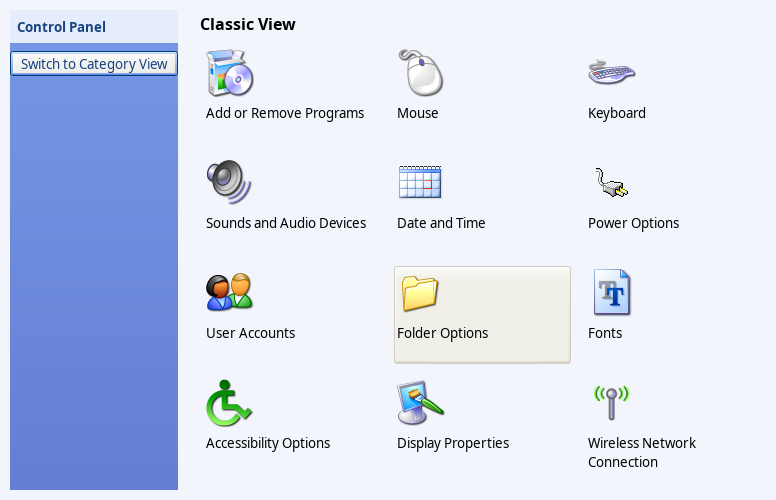
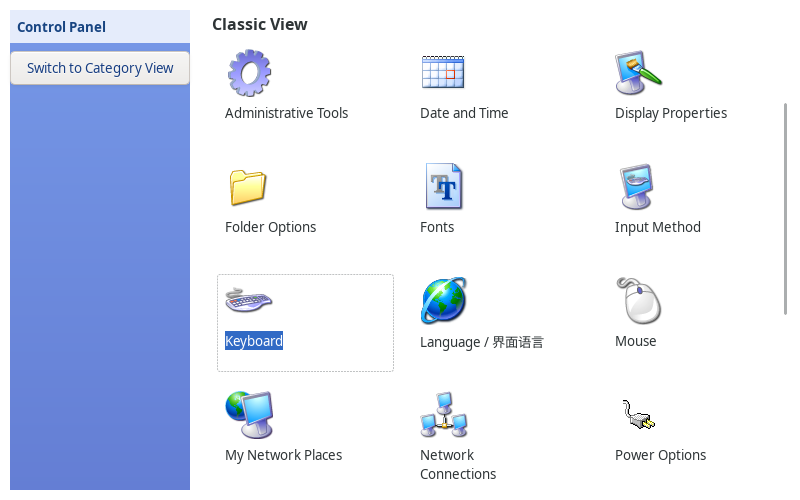
Show the tested keyboard workflow in both laptop Control Panel previews

diff --git a/docs/en.html b/docs/en.html
@@ -1,4 +1,4 @@
-<!doctype html><html lang="en"><meta charset="utf-8"><meta name="viewport" content="width=device-width, initial-scale=1"><title>AgentLinux · A Linux desktop for agents</title><meta name="description" content="Start a task on your desktop. Pick it up in WeChat. Ubuntu Kylin 24.04.5 LTS · ZenCode 3.14.45"><link rel="icon" type="image/png" href="assets/college-emblem.png"><link rel="stylesheet" href="assets/site.css"><header><nav><a class="brand" href="#top"><img src="assets/college-emblem.png" width="56" height="56" alt="Emblem of Fudan University’s College of Computer Science and Artificial Intelligence">AgentLinux</a><div class="navlinks"><a href="#hardware-demo">Hardware demo</a><a href="#features">Features</a><a href="#download">Download</a><a href="index.html" lang="zh-CN">中文</a></div></nav></header><main id="top"><section class="hero"><div><p class="meta">UBUNTU KYLIN 24.04.5 LTS / AMD64</p><h1>AgentLinux</h1><p class="lead">Start a task on your desktop. Pick it up in WeChat.</p><div class="actions"><a class="button" href="#download">Get the ISO ↓</a><a href="https://github.com/bennix/AgentLinux">GitHub ↗</a></div></div><figure><img src="assets/xp-desktop.jpg" alt="AgentLinux desktop in Chinese with a green Start button and a blue taskbar"><figcaption>Chinese desktop after signing in from the installed UEFI virtual disk with the ISO removed</figcaption></figure></section><section class="section" id="hardware-demo"><h2>The desktop agent on real hardware</h2><p class="details">These tasks ran in Chinese and English in a separate graphical session on a physical x86-64 AgentLinux laptop. Select a screenshot to see it at full size.</p><div class="demo-gallery"><figure><a href="assets/agent/laptop-20261125/en-inspect.png"><img src="assets/agent/laptop-20261125/en-inspect.png" loading="lazy" alt="Inspect the kernel and print queue"></a><figcaption><h3>Inspect the kernel and print queue</h3><p>The assistant read the running kernel (Linux 7.0.0-43-generic) and architecture (x86_64). It also reported that the printer check returned no queue details.</p></figcaption></figure><figure><a href="assets/agent/laptop-20261125/writer-document-en.png"><img src="assets/agent/laptop-20261125/writer-document-en.png" loading="lazy" alt="Write a handover note"></a><figcaption><h3>Write a handover note</h3><p>In the same conversation, the assistant used CLI-Anything to create a Writer document. We opened it and checked its kernel, architecture and printer findings against the tool results.</p><a href="assets/agent/laptop-20261125/Handover-en.odt" download>Download the handover note (.odt)</a></figcaption></figure><figure><a href="assets/agent/laptop-20261125/en-printer-wizard.png"><img src="assets/agent/laptop-20261125/en-printer-wizard.png" loading="lazy" alt="Open a wizard and inspect its controls"></a><figcaption><h3>Open a wizard and inspect its controls</h3><p>The assistant launched the Add Printer Wizard and read its accessible controls, including the network printer checkbox, Next and Cancel.</p></figcaption></figure><figure><a href="assets/agent/laptop-20261125/documents-demo-en_US.png"><img src="assets/agent/laptop-20261125/documents-demo-en_US.png" loading="lazy" alt="Open a handover note from My Documents"></a><figcaption><h3>Open a handover note from My Documents</h3><p>The My Documents shortcut opens the personal documents folder. This screenshot was captured on the laptop.</p><p>In a separate desktop session on the laptop, a test script opened the named text file through the accessibility API and verified the text displayed in Notepad against the original.</p></figcaption></figure></div><details class="earlier-demo"><summary>See the earlier calculator walkthrough</summary><div class="demo-gallery"><figure><a href="assets/agent/confirm-app.png"><img src="assets/agent/confirm-app.png" loading="lazy" alt="The assistant reads the kernel version and architecture, then requests permission to open MATE Calculator by its desktop ID."></a><figcaption><h3>Inspect the OS and launch an app</h3><p>The assistant reads the kernel version and architecture, then requests permission to open MATE Calculator by its desktop ID.</p></figcaption></figure><figure><a href="assets/agent/control.png"><img src="assets/agent/control.png" loading="lazy" alt="The assistant inspects the calculator’s accessible controls. The dialog shows the proposed press of the 6 button."></a><figcaption><h3>Find and press a button</h3><p>The assistant inspects the calculator’s accessible controls. The dialog shows the proposed press of the 6 button.</p></figcaption></figure><figure><a href="assets/agent/calculator.png"><img src="assets/agent/calculator.png" loading="lazy" alt="After the agent activates 6, multiply, 7 and equals, the calculator displays 42."></a><figcaption><h3>Read the result in Calculator</h3><p>After the agent activates 6, multiply, 7 and equals, the calculator displays 42.</p></figcaption></figure></div></details></section><section class="section" id="market-demo"><h2>From a market data page to a ZenOffice workbook</h2><p class="details">For this cross-app task, Codex drove Obscura Firefox on the same laptop, read the Yahoo Finance history table, created an XLSX with ZenOffice’s OfficeCLI and opened it in ZenOffice.</p><div class="market-demo"><figure><a href="assets/agent/laptop-20261125/browser-history.png"><img src="assets/agent/laptop-20261125/browser-history.png" alt="GOOGL history in Obscura Firefox, in USD. The November 24, 2026 row is an intraday snapshot." loading="lazy"></a><figcaption>GOOGL history in Obscura Firefox, in USD. The November 24, 2026 row is an intraday snapshot.</figcaption></figure><figure><a href="assets/agent/laptop-20261125/sheet.png"><img src="assets/agent/laptop-20261125/sheet.png" alt="Five rows in ZenOffice. All 30 numeric cells were checked against the page, covering open, high, low, close, adjusted close and volume." loading="lazy"></a><figcaption>Five rows in ZenOffice. All 30 numeric cells were checked against the page, covering open, high, low, close, adjusted close and volume.</figcaption></figure></div><p class="details"><a href="assets/agent/laptop-20261125/Alphabet-GOOGL-snapshot.xlsx" download>Download this workbook (.xlsx)</a> · <a href="https://finance.yahoo.com/quote/GOOGL/history/">Yahoo Finance</a></p></section><section class="section" id="xp-preview"><h2>Control Panel preview</h2><figure><a href="assets/xp-control-panel-en_US.png"><img src="assets/xp-control-panel-en_US.png" width="776" height="500" style="max-width:100%;height:auto" loading="lazy" alt="Classic View with keyboard, display and wireless network settings"></a></figure></section><section id="features" class="section"><h2>From desktop to phone</h2><div class="grid"><article><h3>ZenCode 3.14.45</h3><p>Follow a task, approve actions and enable native desktop observation and clicks in one workspace.</p></article><article><h3>Multi-step desktop actions</h3><p>Find and open apps, switch windows, operate named accessible controls, and inspect connections, disk space and failed services. Review each action before it runs.</p></article><article><h3>WeChat continuity</h3><p>Pair your phone and authorize a workspace to continue a conversation, answer approval requests and receive files.</p></article><article><h3>Models and networking</h3><p>Use ZenMux or configure a compatible endpoint, key and model.</p></article><article><h3>Chinese input and typography</h3><p>Fcitx 5 Pinyin and Noto CJK fonts support Chinese across web pages, desktop editors and monospaced terminals.</p></article><article><h3>Obscura Firefox 0.3.11</h3><p>The default browser disables WebRTC.</p></article></div></section><section id="claude-cage" class="section cage"><div><p class="meta">CLAUDE CAGE / 0.2.0-rc</p><h2>Claude Cage isolated terminal</h2></div><p>Press <kbd>Ctrl</kbd> + <kbd>Alt</kbd> + <kbd>T</kbd> or open Terminal from the applications menu. On first use, install Claude Cage 0.2.0-rc, create a local Cage account, save the recovery key and complete setup in the Cage workbench. Start the guest, then open a terminal to connect. Open Host Terminal from the applications menu for an independent host shell. Each Cage window has its own shell in the same persistent guest. A local guest requires Intel VT-x or AMD-V and user access to KVM. On Apple Silicon under x86 emulation, connect to a remote Cage environment.</p></section><section class="section" id="installation"><h2>Choose where to run AgentLinux</h2><div class="grid"><article><h3>Try the Live desktop</h3><p>The LiveCD signs in automatically. If prompted, enter <code>agentlinux</code> as the username, leave the password blank and press Enter. The preinstalled SanDisk USB drive uses the default username <code>agent</code> and password <code>agentfudan</code>. If you install AgentLinux yourself, sign in with the credentials you set during installation.</p><p>Write the ISO to a spare USB drive. This erases that drive. Select it in the computer’s boot menu to try the desktop. An ordinary Live session discards changes at shutdown.</p></article><article><h3>Install on an internal drive</h3><p>Open Install Ubuntu Kylin on the Live desktop. Check the destination by model and capacity, review the partition changes, then install. Remove the installer USB when prompted to restart.</p></article><article><h3>Carry your system on USB</h3><p>Boot the installer and select a second USB drive for a full installation. Boot that drive to keep your files, input history and app settings across sessions. A separately configured dual-mode drive can also offer a Live installer entry.</p></article></div></section><section><h2>Keep working with the lid closed</h2><p class="details">By default, closing the lid turns off the built-in display and keeps the laptop awake on AC or battery power. Running agent tasks continue, and you can keep using SSH while the laptop is connected to the network.</p></section><section class="download" id="download"><p class="meta">2026.11.25.5 / 8.17 GiB</p><h2>Download and boot</h2><p>XP window titles are left-aligned. The Start menu’s Email entry opens the mail reader chooser. Fixes a battery tray crash at shutdown that triggered an error report on the next login. Right-click the network icon to choose Wi-Fi on small screens. The live desktop includes a disk installer shortcut.</p><p class="details">ZenCode opens from the applications menu on demand. Includes MyIME, WeChat for Linux, ZenOffice and GParted. Open Properties on a connected Wi-Fi network to view its IPv4, IPv6, gateway and DNS. Download the complete ISO and its checksum from Hugging Face. Allow at least 9 GB of free space.</p><div class="actions"><a class="button" href="https://huggingface.co/datasets/Bennixzp2024/AgentLinux/resolve/v2026.11.25.5/AgentLinux-24.04.5-desktop-amd64.iso?download=true">Download full ISO ↓</a><a href="https://huggingface.co/datasets/Bennixzp2024/AgentLinux/resolve/v2026.11.25.5/AgentLinux-24.04.5-desktop-amd64.iso.sha256?download=true">SHA-256</a><a href="manual/agent-guide.pdf" hreflang="zh-CN">Agent user guide (Chinese PDF)</a><a href="https://huggingface.co/datasets/Bennixzp2024/AgentLinux">Hugging Face ↗</a></div><pre># Linux
+<!doctype html><html lang="en"><meta charset="utf-8"><meta name="viewport" content="width=device-width, initial-scale=1"><title>AgentLinux · A Linux desktop for agents</title><meta name="description" content="Start a task on your desktop. Pick it up in WeChat. Ubuntu Kylin 24.04.5 LTS · ZenCode 3.14.45"><link rel="icon" type="image/png" href="assets/college-emblem.png"><link rel="stylesheet" href="assets/site.css"><header><nav><a class="brand" href="#top"><img src="assets/college-emblem.png" width="56" height="56" alt="Emblem of Fudan University’s College of Computer Science and Artificial Intelligence">AgentLinux</a><div class="navlinks"><a href="#hardware-demo">Hardware demo</a><a href="#features">Features</a><a href="#download">Download</a><a href="index.html" lang="zh-CN">中文</a></div></nav></header><main id="top"><section class="hero"><div><p class="meta">UBUNTU KYLIN 24.04.5 LTS / AMD64</p><h1>AgentLinux</h1><p class="lead">Start a task on your desktop. Pick it up in WeChat.</p><div class="actions"><a class="button" href="#download">Get the ISO ↓</a><a href="https://github.com/bennix/AgentLinux">GitHub ↗</a></div></div><figure><img src="assets/xp-desktop.jpg" alt="AgentLinux desktop in Chinese with a green Start button and a blue taskbar"><figcaption>Chinese desktop after signing in from the installed UEFI virtual disk with the ISO removed</figcaption></figure></section><section class="section" id="hardware-demo"><h2>The desktop agent on real hardware</h2><p class="details">These tasks ran in Chinese and English in a separate graphical session on a physical x86-64 AgentLinux laptop. Select a screenshot to see it at full size.</p><div class="demo-gallery"><figure><a href="assets/agent/laptop-20261125/en-inspect.png"><img src="assets/agent/laptop-20261125/en-inspect.png" loading="lazy" alt="Inspect the kernel and print queue"></a><figcaption><h3>Inspect the kernel and print queue</h3><p>The assistant read the running kernel (Linux 7.0.0-43-generic) and architecture (x86_64). It also reported that the printer check returned no queue details.</p></figcaption></figure><figure><a href="assets/agent/laptop-20261125/writer-document-en.png"><img src="assets/agent/laptop-20261125/writer-document-en.png" loading="lazy" alt="Write a handover note"></a><figcaption><h3>Write a handover note</h3><p>In the same conversation, the assistant used CLI-Anything to create a Writer document. We opened it and checked its kernel, architecture and printer findings against the tool results.</p><a href="assets/agent/laptop-20261125/Handover-en.odt" download>Download the handover note (.odt)</a></figcaption></figure><figure><a href="assets/agent/laptop-20261125/en-printer-wizard.png"><img src="assets/agent/laptop-20261125/en-printer-wizard.png" loading="lazy" alt="Open a wizard and inspect its controls"></a><figcaption><h3>Open a wizard and inspect its controls</h3><p>The assistant launched the Add Printer Wizard and read its accessible controls, including the network printer checkbox, Next and Cancel.</p></figcaption></figure><figure><a href="assets/agent/laptop-20261125/documents-demo-en_US.png"><img src="assets/agent/laptop-20261125/documents-demo-en_US.png" loading="lazy" alt="Open a handover note from My Documents"></a><figcaption><h3>Open a handover note from My Documents</h3><p>The My Documents shortcut opens the personal documents folder. This screenshot was captured on the laptop.</p><p>In a separate desktop session on the laptop, a test script opened the named text file through the accessibility API and verified the text displayed in Notepad against the original.</p></figcaption></figure></div><details class="earlier-demo"><summary>See the earlier calculator walkthrough</summary><div class="demo-gallery"><figure><a href="assets/agent/confirm-app.png"><img src="assets/agent/confirm-app.png" loading="lazy" alt="The assistant reads the kernel version and architecture, then requests permission to open MATE Calculator by its desktop ID."></a><figcaption><h3>Inspect the OS and launch an app</h3><p>The assistant reads the kernel version and architecture, then requests permission to open MATE Calculator by its desktop ID.</p></figcaption></figure><figure><a href="assets/agent/control.png"><img src="assets/agent/control.png" loading="lazy" alt="The assistant inspects the calculator’s accessible controls. The dialog shows the proposed press of the 6 button."></a><figcaption><h3>Find and press a button</h3><p>The assistant inspects the calculator’s accessible controls. The dialog shows the proposed press of the 6 button.</p></figcaption></figure><figure><a href="assets/agent/calculator.png"><img src="assets/agent/calculator.png" loading="lazy" alt="After the agent activates 6, multiply, 7 and equals, the calculator displays 42."></a><figcaption><h3>Read the result in Calculator</h3><p>After the agent activates 6, multiply, 7 and equals, the calculator displays 42.</p></figcaption></figure></div></details></section><section class="section" id="market-demo"><h2>From a market data page to a ZenOffice workbook</h2><p class="details">For this cross-app task, Codex drove Obscura Firefox on the same laptop, read the Yahoo Finance history table, created an XLSX with ZenOffice’s OfficeCLI and opened it in ZenOffice.</p><div class="market-demo"><figure><a href="assets/agent/laptop-20261125/browser-history.png"><img src="assets/agent/laptop-20261125/browser-history.png" alt="GOOGL history in Obscura Firefox, in USD. The November 24, 2026 row is an intraday snapshot." loading="lazy"></a><figcaption>GOOGL history in Obscura Firefox, in USD. The November 24, 2026 row is an intraday snapshot.</figcaption></figure><figure><a href="assets/agent/laptop-20261125/sheet.png"><img src="assets/agent/laptop-20261125/sheet.png" alt="Five rows in ZenOffice. All 30 numeric cells were checked against the page, covering open, high, low, close, adjusted close and volume." loading="lazy"></a><figcaption>Five rows in ZenOffice. All 30 numeric cells were checked against the page, covering open, high, low, close, adjusted close and volume.</figcaption></figure></div><p class="details"><a href="assets/agent/laptop-20261125/Alphabet-GOOGL-snapshot.xlsx" download>Download this workbook (.xlsx)</a> · <a href="https://finance.yahoo.com/quote/GOOGL/history/">Yahoo Finance</a></p></section><section class="section" id="xp-preview"><h2>Control Panel preview</h2><figure><a href="assets/xp-control-panel-en_US.png"><img src="assets/xp-control-panel-en_US.png" width="800" height="500" style="max-width:100%;height:auto" loading="lazy" alt="Classic Control Panel on the laptop with the Keyboard icon label highlighted in blue"></a><figcaption>Tested on the laptop preview build. Press K to select Keyboard, Enter to open its properties and Esc to return to the selected icon.</figcaption></figure></section><section id="features" class="section"><h2>From desktop to phone</h2><div class="grid"><article><h3>ZenCode 3.14.45</h3><p>Follow a task, approve actions and enable native desktop observation and clicks in one workspace.</p></article><article><h3>Multi-step desktop actions</h3><p>Find and open apps, switch windows, operate named accessible controls, and inspect connections, disk space and failed services. Review each action before it runs.</p></article><article><h3>WeChat continuity</h3><p>Pair your phone and authorize a workspace to continue a conversation, answer approval requests and receive files.</p></article><article><h3>Models and networking</h3><p>Use ZenMux or configure a compatible endpoint, key and model.</p></article><article><h3>Chinese input and typography</h3><p>Fcitx 5 Pinyin and Noto CJK fonts support Chinese across web pages, desktop editors and monospaced terminals.</p></article><article><h3>Obscura Firefox 0.3.11</h3><p>The default browser disables WebRTC.</p></article></div></section><section id="claude-cage" class="section cage"><div><p class="meta">CLAUDE CAGE / 0.2.0-rc</p><h2>Claude Cage isolated terminal</h2></div><p>Press <kbd>Ctrl</kbd> + <kbd>Alt</kbd> + <kbd>T</kbd> or open Terminal from the applications menu. On first use, install Claude Cage 0.2.0-rc, create a local Cage account, save the recovery key and complete setup in the Cage workbench. Start the guest, then open a terminal to connect. Open Host Terminal from the applications menu for an independent host shell. Each Cage window has its own shell in the same persistent guest. A local guest requires Intel VT-x or AMD-V and user access to KVM. On Apple Silicon under x86 emulation, connect to a remote Cage environment.</p></section><section class="section" id="installation"><h2>Choose where to run AgentLinux</h2><div class="grid"><article><h3>Try the Live desktop</h3><p>The LiveCD signs in automatically. If prompted, enter <code>agentlinux</code> as the username, leave the password blank and press Enter. The preinstalled SanDisk USB drive uses the default username <code>agent</code> and password <code>agentfudan</code>. If you install AgentLinux yourself, sign in with the credentials you set during installation.</p><p>Write the ISO to a spare USB drive. This erases that drive. Select it in the computer’s boot menu to try the desktop. An ordinary Live session discards changes at shutdown.</p></article><article><h3>Install on an internal drive</h3><p>Open Install Ubuntu Kylin on the Live desktop. Check the destination by model and capacity, review the partition changes, then install. Remove the installer USB when prompted to restart.</p></article><article><h3>Carry your system on USB</h3><p>Boot the installer and select a second USB drive for a full installation. Boot that drive to keep your files, input history and app settings across sessions. A separately configured dual-mode drive can also offer a Live installer entry.</p></article></div></section><section><h2>Keep working with the lid closed</h2><p class="details">By default, closing the lid turns off the built-in display and keeps the laptop awake on AC or battery power. Running agent tasks continue, and you can keep using SSH while the laptop is connected to the network.</p></section><section class="download" id="download"><p class="meta">2026.11.25.5 / 8.17 GiB</p><h2>Download and boot</h2><p>XP window titles are left-aligned. The Start menu’s Email entry opens the mail reader chooser. Fixes a battery tray crash at shutdown that triggered an error report on the next login. Right-click the network icon to choose Wi-Fi on small screens. The live desktop includes a disk installer shortcut.</p><p class="details">ZenCode opens from the applications menu on demand. Includes MyIME, WeChat for Linux, ZenOffice and GParted. Open Properties on a connected Wi-Fi network to view its IPv4, IPv6, gateway and DNS. Download the complete ISO and its checksum from Hugging Face. Allow at least 9 GB of free space.</p><div class="actions"><a class="button" href="https://huggingface.co/datasets/Bennixzp2024/AgentLinux/resolve/v2026.11.25.5/AgentLinux-24.04.5-desktop-amd64.iso?download=true">Download full ISO ↓</a><a href="https://huggingface.co/datasets/Bennixzp2024/AgentLinux/resolve/v2026.11.25.5/AgentLinux-24.04.5-desktop-amd64.iso.sha256?download=true">SHA-256</a><a href="manual/agent-guide.pdf" hreflang="zh-CN">Agent user guide (Chinese PDF)</a><a href="https://huggingface.co/datasets/Bennixzp2024/AgentLinux">Hugging Face ↗</a></div><pre># Linux
 sha256sum -c AgentLinux-24.04.5-desktop-amd64.iso.sha256
 
 # macOS

diff --git a/docs/index.html b/docs/index.html
@@ -1,4 +1,4 @@
-<!doctype html><html lang="zh-CN"><meta charset="utf-8"><meta name="viewport" content="width=device-width, initial-scale=1"><title>AgentLinux · 中文 Agent 桌面系统</title><meta name="description" content="在桌面上交给 Agent，在微信里接着做。 Ubuntu Kylin 24.04.5 LTS · ZenCode 3.14.45"><link rel="icon" type="image/png" href="assets/college-emblem.png"><link rel="stylesheet" href="assets/site.css"><header><nav><a class="brand" href="#top"><img src="assets/college-emblem.png" width="56" height="56" alt="复旦大学计算与智能创新学院徽章">AgentLinux</a><div class="navlinks"><a href="#hardware-demo">真机演示</a><a href="#features">功能</a><a href="#download">下载</a><a href="en.html" lang="en">English</a></div></nav></header><main id="top"><section class="hero"><div><p class="meta">UBUNTU KYLIN 24.04.5 LTS / AMD64</p><h1>AgentLinux</h1><p class="lead">在桌面上交给 Agent，在微信里接着做。</p><div class="actions"><a class="button" href="#download">获取 ISO ↓</a><a href="https://github.com/bennix/AgentLinux">GitHub ↗</a></div></div><figure><img src="assets/xp-desktop.jpg" alt="QEMU 中的 AgentLinux 中文桌面，带有绿色开始按钮和蓝色任务栏"><figcaption>移除 ISO 后，从虚拟硬盘独立启动并登录的中文桌面</figcaption></figure></section><section class="section" id="hardware-demo"><h2>桌面 Agent 真机演示</h2><p class="details">在一台运行 AgentLinux 的 x86-64 笔记本上，分别用中文和英文向 ZenMux 桌面助手下达任务。以下截图来自独立图形会话，点图可查看原图。</p><div class="demo-gallery"><figure><a href="assets/agent/laptop-20261125/zh-inspect.png"><img src="assets/agent/laptop-20261125/zh-inspect.png" loading="lazy" alt="查询内核与打印队列"></a><figcaption><h3>查询内核与打印队列</h3><p>助手调用系统接口，读出 Linux 7.0.0-43-generic 和 x86_64。打印服务返回空列表，助手在回复中说明了这一点。</p></figcaption></figure><figure><a href="assets/agent/laptop-20261125/writer-document-zh.png"><img src="assets/agent/laptop-20261125/writer-document-zh.png" loading="lazy" alt="把检查结果写成交接记录"></a><figcaption><h3>把检查结果写成交接记录</h3><p>在同一段对话中，助手调用 CLI-Anything 生成 Writer 文档。打开文件后，内核、架构和打印队列结果均与实测记录一致。</p><a href="assets/agent/laptop-20261125/Handover-zh.odt" download>下载交接记录 (.odt)</a></figcaption></figure><figure><a href="assets/agent/laptop-20261125/zh-printer-wizard.png"><img src="assets/agent/laptop-20261125/zh-printer-wizard.png" loading="lazy" alt="打开向导并读取窗口控件"></a><figcaption><h3>打开向导并读取窗口控件</h3><p>助手启动添加打印机向导，通过辅助功能接口识别了“使用网络打印机地址”“下一步”和“取消”。</p></figcaption></figure><figure><a href="assets/agent/laptop-20261125/documents-demo-zh_CN.png"><img src="assets/agent/laptop-20261125/documents-demo-zh_CN.png" loading="lazy" alt="从“我的文档”打开交接记录"></a><figcaption><h3>从“我的文档”打开交接记录</h3><p>本版桌面的“我的文档”可直接打开个人文档目录。下图摄于笔记本。</p><p>在笔记本的独立图形会话中，测试程序通过无障碍接口按名称打开文本文件，再从记事本读回正文，与原文件逐字核对。</p></figcaption></figure></div><details class="earlier-demo"><summary>查看之前的计算器操作演示</summary><div class="demo-gallery"><figure><a href="assets/agent/confirm-app.png"><img src="assets/agent/confirm-app.png" loading="lazy" alt="助手读出内核版本和架构，然后请求按桌面 ID 启动 MATE 计算器。"></a><figcaption><h3>查询系统并打开应用</h3><p>助手读出内核版本和架构，然后请求按桌面 ID 启动 MATE 计算器。</p></figcaption></figure><figure><a href="assets/agent/control.png"><img src="assets/agent/control.png" loading="lazy" alt="助手读取计算器的可访问控件。图中是按下数字 6 之前的确认窗口。"></a><figcaption><h3>识别并操作窗口按钮</h3><p>助手读取计算器的可访问控件。图中是按下数字 6 之前的确认窗口。</p></figcaption></figure><figure><a href="assets/agent/calculator.png"><img src="assets/agent/calculator.png" loading="lazy" alt="依次激活 6、乘号、7 和等号后，计算器窗口显示实际结果。"></a><figcaption><h3>在计算器中得到 42</h3><p>依次激活 6、乘号、7 和等号后，计算器窗口显示实际结果。</p></figcaption></figure></div></details></section><section class="section" id="market-demo"><h2>从行情网页到 ZenOffice 工作簿</h2><p class="details">本次跨应用任务由 Codex 在同一台笔记本上执行。它操作 Obscura Firefox，读取 Yahoo Finance 的历史行情表，再调用 ZenOffice 的 OfficeCLI 生成 XLSX，并用 ZenOffice 打开成品。</p><div class="market-demo"><figure><a href="assets/agent/laptop-20261125/browser-history.png"><img src="assets/agent/laptop-20261125/browser-history.png" alt="Obscura Firefox 中的 GOOGL 行情，币种为美元。2026 年 11 月 24 日一行为交易时段内截取的快照。" loading="lazy"></a><figcaption>Obscura Firefox 中的 GOOGL 行情，币种为美元。2026 年 11 月 24 日一行为交易时段内截取的快照。</figcaption></figure><figure><a href="assets/agent/laptop-20261125/sheet.png"><img src="assets/agent/laptop-20261125/sheet.png" alt="ZenOffice 中的五行数据。逐项核对了开盘价、最高价、最低价、收盘栏、调整后收盘栏和成交量，共 30 个数值。" loading="lazy"></a><figcaption>ZenOffice 中的五行数据。逐项核对了开盘价、最高价、最低价、收盘栏、调整后收盘栏和成交量，共 30 个数值。</figcaption></figure></div><p class="details"><a href="assets/agent/laptop-20261125/Alphabet-GOOGL-snapshot.xlsx" download>下载本次工作簿 (.xlsx)</a> · <a href="https://finance.yahoo.com/quote/GOOGL/history/">Yahoo Finance</a></p></section><section class="section" id="xp-preview"><h2>新版控制面板预览</h2><figure><a href="assets/xp-control-panel-zh_CN.png"><img src="assets/xp-control-panel-zh_CN.png" width="776" height="500" style="max-width:100%;height:auto" loading="lazy" alt="经典视图中的无线网络连接、网上邻居和打印机设置"></a></figure></section><section id="features" class="section"><h2>从桌面到手机的工作流</h2><div class="grid"><article><h3>ZenCode 3.14.45</h3><p>把任务交给工作台，在同一会话里查看进度、确认操作，或启用原生桌面观察与点击。</p></article><article><h3>微信续接与文件回传</h3><p>在工作台扫码配对，授权账号和工作区。手机可续接会话、回答确认请求并接收工作区文件。</p></article><article><h3>多步桌面操作</h3><p>授权后，助手可以查找并启动应用、切换窗口、识别并操作具名按钮，也可以检查网络、磁盘和系统服务。每次操作前可确认或取消。</p></article><article><h3>AI 供应商与模型</h3><p>助手默认使用 ZenMux，可保存其他兼容接口、密钥和模型。</p></article><article><h3>中文输入与排版</h3><p>Fcitx 5 拼音配合 Noto CJK 字体，覆盖网页、桌面编辑器与等宽终端。</p></article><article><h3>Obscura Firefox 0.3.11</h3><p>默认浏览器关闭 WebRTC。</p></article></div></section><section id="claude-cage" class="section cage"><div><p class="meta">CLAUDE CAGE / 0.2.0-rc</p><h2>Claude Cage 隔离终端</h2></div><p>按 <kbd>Ctrl</kbd> + <kbd>Alt</kbd> + <kbd>T</kbd>，或从应用菜单打开终端。首次打开终端时会进入 Claude Cage 0.2.0-rc 设置。在工作台创建本地账户并保存恢复密钥。完成工作台设置并启动客机后，再打开终端即可进入隔离会话。应用菜单里的“本机终端”可独立运行宿主机 shell。每个 Cage 窗口有自己的 shell，同一配置共用一台持久客机。Intel VT-x 或 AMD-V 需开启，Linux 用户需能访问 KVM。Apple Silicon 上的 x86 QEMU 模拟环境可连接远程 Cage。</p></section><section class="section" id="installation"><h2>选择启动和安装方式</h2><div class="grid"><article><h3>试用 Live 桌面</h3><p>LiveCD 默认自动登录。若出现登录界面，用户名为 <code>agentlinux</code>，密码留空，直接按回车。预装 SanDisk U 盘默认用户名为 <code>agent</code>，密码为 <code>agentfudan</code>。自行安装时，请使用安装过程中设置的账户和密码。</p><p>把 ISO 写入备用 U 盘（写入会清空该盘），从电脑启动菜单选择它。进入 Live 桌面即可试用；普通 Live 会话关机后会丢失改动。</p></article><article><h3>安装到内置硬盘</h3><p>在 Live 桌面打开“安装 Ubuntu Kylin”。按型号和容量核对目标硬盘，确认分区方案。安装器提示重启时拔出启动盘。</p></article><article><h3>把系统装在 U 盘上</h3><p>从安装介质启动，选择另一只 U 盘作为完整安装目标。以后从这只盘启动，文件、输入法词频和应用设置都可保存。另行配置双模式菜单后，还可选择 Live 安装入口。</p></article></div></section><section><h2>合盖后继续远程工作</h2><p class="details">笔记本默认在合盖时关闭内置屏幕，接电和电池供电时系统都保持运行。你可以合上屏幕，让正在执行的 Agent 任务继续；网络保持连接时，也可以通过 SSH 继续操作。</p></section><section class="download" id="download"><p class="meta">2026.11.25.5 / 8.17 GiB</p><h2>下载并启动</h2><p>XP 蓝色标题栏采用左对齐布局。中文开始菜单中的“电子邮件”可打开邮件阅读器选择窗口。修复电池托盘在关机时崩溃、下次登录提示内部错误的问题。右键点击网络图标即可在小屏幕上选择 Wi-Fi，Live 桌面提供硬盘安装入口。</p><p class="details">ZenCode 工作台可从应用菜单手动打开。内置 MyIME、原生微信、ZenOffice 和 GParted。点击已连接 Wi-Fi 的“属性”可查看 IPv4、IPv6、网关及 DNS。从 Hugging Face 直接下载完整 ISO 和校验文件。请预留至少 9 GB 磁盘空间。</p><div class="actions"><a class="button" href="https://huggingface.co/datasets/Bennixzp2024/AgentLinux/resolve/v2026.11.25.5/AgentLinux-24.04.5-desktop-amd64.iso?download=true">下载完整 ISO ↓</a><a href="https://huggingface.co/datasets/Bennixzp2024/AgentLinux/resolve/v2026.11.25.5/AgentLinux-24.04.5-desktop-amd64.iso.sha256?download=true">SHA-256</a><a href="manual/agent-guide.pdf" hreflang="zh-CN">Agent 使用手册（中文 PDF）</a><a href="https://huggingface.co/datasets/Bennixzp2024/AgentLinux">Hugging Face ↗</a></div><pre># Linux
+<!doctype html><html lang="zh-CN"><meta charset="utf-8"><meta name="viewport" content="width=device-width, initial-scale=1"><title>AgentLinux · 中文 Agent 桌面系统</title><meta name="description" content="在桌面上交给 Agent，在微信里接着做。 Ubuntu Kylin 24.04.5 LTS · ZenCode 3.14.45"><link rel="icon" type="image/png" href="assets/college-emblem.png"><link rel="stylesheet" href="assets/site.css"><header><nav><a class="brand" href="#top"><img src="assets/college-emblem.png" width="56" height="56" alt="复旦大学计算与智能创新学院徽章">AgentLinux</a><div class="navlinks"><a href="#hardware-demo">真机演示</a><a href="#features">功能</a><a href="#download">下载</a><a href="en.html" lang="en">English</a></div></nav></header><main id="top"><section class="hero"><div><p class="meta">UBUNTU KYLIN 24.04.5 LTS / AMD64</p><h1>AgentLinux</h1><p class="lead">在桌面上交给 Agent，在微信里接着做。</p><div class="actions"><a class="button" href="#download">获取 ISO ↓</a><a href="https://github.com/bennix/AgentLinux">GitHub ↗</a></div></div><figure><img src="assets/xp-desktop.jpg" alt="QEMU 中的 AgentLinux 中文桌面，带有绿色开始按钮和蓝色任务栏"><figcaption>移除 ISO 后，从虚拟硬盘独立启动并登录的中文桌面</figcaption></figure></section><section class="section" id="hardware-demo"><h2>桌面 Agent 真机演示</h2><p class="details">在一台运行 AgentLinux 的 x86-64 笔记本上，分别用中文和英文向 ZenMux 桌面助手下达任务。以下截图来自独立图形会话，点图可查看原图。</p><div class="demo-gallery"><figure><a href="assets/agent/laptop-20261125/zh-inspect.png"><img src="assets/agent/laptop-20261125/zh-inspect.png" loading="lazy" alt="查询内核与打印队列"></a><figcaption><h3>查询内核与打印队列</h3><p>助手调用系统接口，读出 Linux 7.0.0-43-generic 和 x86_64。打印服务返回空列表，助手在回复中说明了这一点。</p></figcaption></figure><figure><a href="assets/agent/laptop-20261125/writer-document-zh.png"><img src="assets/agent/laptop-20261125/writer-document-zh.png" loading="lazy" alt="把检查结果写成交接记录"></a><figcaption><h3>把检查结果写成交接记录</h3><p>在同一段对话中，助手调用 CLI-Anything 生成 Writer 文档。打开文件后，内核、架构和打印队列结果均与实测记录一致。</p><a href="assets/agent/laptop-20261125/Handover-zh.odt" download>下载交接记录 (.odt)</a></figcaption></figure><figure><a href="assets/agent/laptop-20261125/zh-printer-wizard.png"><img src="assets/agent/laptop-20261125/zh-printer-wizard.png" loading="lazy" alt="打开向导并读取窗口控件"></a><figcaption><h3>打开向导并读取窗口控件</h3><p>助手启动添加打印机向导，通过辅助功能接口识别了“使用网络打印机地址”“下一步”和“取消”。</p></figcaption></figure><figure><a href="assets/agent/laptop-20261125/documents-demo-zh_CN.png"><img src="assets/agent/laptop-20261125/documents-demo-zh_CN.png" loading="lazy" alt="从“我的文档”打开交接记录"></a><figcaption><h3>从“我的文档”打开交接记录</h3><p>本版桌面的“我的文档”可直接打开个人文档目录。下图摄于笔记本。</p><p>在笔记本的独立图形会话中，测试程序通过无障碍接口按名称打开文本文件，再从记事本读回正文，与原文件逐字核对。</p></figcaption></figure></div><details class="earlier-demo"><summary>查看之前的计算器操作演示</summary><div class="demo-gallery"><figure><a href="assets/agent/confirm-app.png"><img src="assets/agent/confirm-app.png" loading="lazy" alt="助手读出内核版本和架构，然后请求按桌面 ID 启动 MATE 计算器。"></a><figcaption><h3>查询系统并打开应用</h3><p>助手读出内核版本和架构，然后请求按桌面 ID 启动 MATE 计算器。</p></figcaption></figure><figure><a href="assets/agent/control.png"><img src="assets/agent/control.png" loading="lazy" alt="助手读取计算器的可访问控件。图中是按下数字 6 之前的确认窗口。"></a><figcaption><h3>识别并操作窗口按钮</h3><p>助手读取计算器的可访问控件。图中是按下数字 6 之前的确认窗口。</p></figcaption></figure><figure><a href="assets/agent/calculator.png"><img src="assets/agent/calculator.png" loading="lazy" alt="依次激活 6、乘号、7 和等号后，计算器窗口显示实际结果。"></a><figcaption><h3>在计算器中得到 42</h3><p>依次激活 6、乘号、7 和等号后，计算器窗口显示实际结果。</p></figcaption></figure></div></details></section><section class="section" id="market-demo"><h2>从行情网页到 ZenOffice 工作簿</h2><p class="details">本次跨应用任务由 Codex 在同一台笔记本上执行。它操作 Obscura Firefox，读取 Yahoo Finance 的历史行情表，再调用 ZenOffice 的 OfficeCLI 生成 XLSX，并用 ZenOffice 打开成品。</p><div class="market-demo"><figure><a href="assets/agent/laptop-20261125/browser-history.png"><img src="assets/agent/laptop-20261125/browser-history.png" alt="Obscura Firefox 中的 GOOGL 行情，币种为美元。2026 年 11 月 24 日一行为交易时段内截取的快照。" loading="lazy"></a><figcaption>Obscura Firefox 中的 GOOGL 行情，币种为美元。2026 年 11 月 24 日一行为交易时段内截取的快照。</figcaption></figure><figure><a href="assets/agent/laptop-20261125/sheet.png"><img src="assets/agent/laptop-20261125/sheet.png" alt="ZenOffice 中的五行数据。逐项核对了开盘价、最高价、最低价、收盘栏、调整后收盘栏和成交量，共 30 个数值。" loading="lazy"></a><figcaption>ZenOffice 中的五行数据。逐项核对了开盘价、最高价、最低价、收盘栏、调整后收盘栏和成交量，共 30 个数值。</figcaption></figure></div><p class="details"><a href="assets/agent/laptop-20261125/Alphabet-GOOGL-snapshot.xlsx" download>下载本次工作簿 (.xlsx)</a> · <a href="https://finance.yahoo.com/quote/GOOGL/history/">Yahoo Finance</a></p></section><section class="section" id="xp-preview"><h2>新版控制面板预览</h2><figure><a href="assets/xp-control-panel-zh_CN.png"><img src="assets/xp-control-panel-zh_CN.png" width="800" height="500" style="max-width:100%;height:auto" loading="lazy" alt="笔记本的经典控制面板，键盘图标的名称以蓝色高亮"></a><figcaption>笔记本预览版实测：按 K 选中“键盘”，按回车打开属性，再按 Esc 返回原图标。</figcaption></figure></section><section id="features" class="section"><h2>从桌面到手机的工作流</h2><div class="grid"><article><h3>ZenCode 3.14.45</h3><p>把任务交给工作台，在同一会话里查看进度、确认操作，或启用原生桌面观察与点击。</p></article><article><h3>微信续接与文件回传</h3><p>在工作台扫码配对，授权账号和工作区。手机可续接会话、回答确认请求并接收工作区文件。</p></article><article><h3>多步桌面操作</h3><p>授权后，助手可以查找并启动应用、切换窗口、识别并操作具名按钮，也可以检查网络、磁盘和系统服务。每次操作前可确认或取消。</p></article><article><h3>AI 供应商与模型</h3><p>助手默认使用 ZenMux，可保存其他兼容接口、密钥和模型。</p></article><article><h3>中文输入与排版</h3><p>Fcitx 5 拼音配合 Noto CJK 字体，覆盖网页、桌面编辑器与等宽终端。</p></article><article><h3>Obscura Firefox 0.3.11</h3><p>默认浏览器关闭 WebRTC。</p></article></div></section><section id="claude-cage" class="section cage"><div><p class="meta">CLAUDE CAGE / 0.2.0-rc</p><h2>Claude Cage 隔离终端</h2></div><p>按 <kbd>Ctrl</kbd> + <kbd>Alt</kbd> + <kbd>T</kbd>，或从应用菜单打开终端。首次打开终端时会进入 Claude Cage 0.2.0-rc 设置。在工作台创建本地账户并保存恢复密钥。完成工作台设置并启动客机后，再打开终端即可进入隔离会话。应用菜单里的“本机终端”可独立运行宿主机 shell。每个 Cage 窗口有自己的 shell，同一配置共用一台持久客机。Intel VT-x 或 AMD-V 需开启，Linux 用户需能访问 KVM。Apple Silicon 上的 x86 QEMU 模拟环境可连接远程 Cage。</p></section><section class="section" id="installation"><h2>选择启动和安装方式</h2><div class="grid"><article><h3>试用 Live 桌面</h3><p>LiveCD 默认自动登录。若出现登录界面，用户名为 <code>agentlinux</code>，密码留空，直接按回车。预装 SanDisk U 盘默认用户名为 <code>agent</code>，密码为 <code>agentfudan</code>。自行安装时，请使用安装过程中设置的账户和密码。</p><p>把 ISO 写入备用 U 盘（写入会清空该盘），从电脑启动菜单选择它。进入 Live 桌面即可试用；普通 Live 会话关机后会丢失改动。</p></article><article><h3>安装到内置硬盘</h3><p>在 Live 桌面打开“安装 Ubuntu Kylin”。按型号和容量核对目标硬盘，确认分区方案。安装器提示重启时拔出启动盘。</p></article><article><h3>把系统装在 U 盘上</h3><p>从安装介质启动，选择另一只 U 盘作为完整安装目标。以后从这只盘启动，文件、输入法词频和应用设置都可保存。另行配置双模式菜单后，还可选择 Live 安装入口。</p></article></div></section><section><h2>合盖后继续远程工作</h2><p class="details">笔记本默认在合盖时关闭内置屏幕，接电和电池供电时系统都保持运行。你可以合上屏幕，让正在执行的 Agent 任务继续；网络保持连接时，也可以通过 SSH 继续操作。</p></section><section class="download" id="download"><p class="meta">2026.11.25.5 / 8.17 GiB</p><h2>下载并启动</h2><p>XP 蓝色标题栏采用左对齐布局。中文开始菜单中的“电子邮件”可打开邮件阅读器选择窗口。修复电池托盘在关机时崩溃、下次登录提示内部错误的问题。右键点击网络图标即可在小屏幕上选择 Wi-Fi，Live 桌面提供硬盘安装入口。</p><p class="details">ZenCode 工作台可从应用菜单手动打开。内置 MyIME、原生微信、ZenOffice 和 GParted。点击已连接 Wi-Fi 的“属性”可查看 IPv4、IPv6、网关及 DNS。从 Hugging Face 直接下载完整 ISO 和校验文件。请预留至少 9 GB 磁盘空间。</p><div class="actions"><a class="button" href="https://huggingface.co/datasets/Bennixzp2024/AgentLinux/resolve/v2026.11.25.5/AgentLinux-24.04.5-desktop-amd64.iso?download=true">下载完整 ISO ↓</a><a href="https://huggingface.co/datasets/Bennixzp2024/AgentLinux/resolve/v2026.11.25.5/AgentLinux-24.04.5-desktop-amd64.iso.sha256?download=true">SHA-256</a><a href="manual/agent-guide.pdf" hreflang="zh-CN">Agent 使用手册（中文 PDF）</a><a href="https://huggingface.co/datasets/Bennixzp2024/AgentLinux">Hugging Face ↗</a></div><pre># Linux
 sha256sum -c AgentLinux-24.04.5-desktop-amd64.iso.sha256
 
 # macOS
